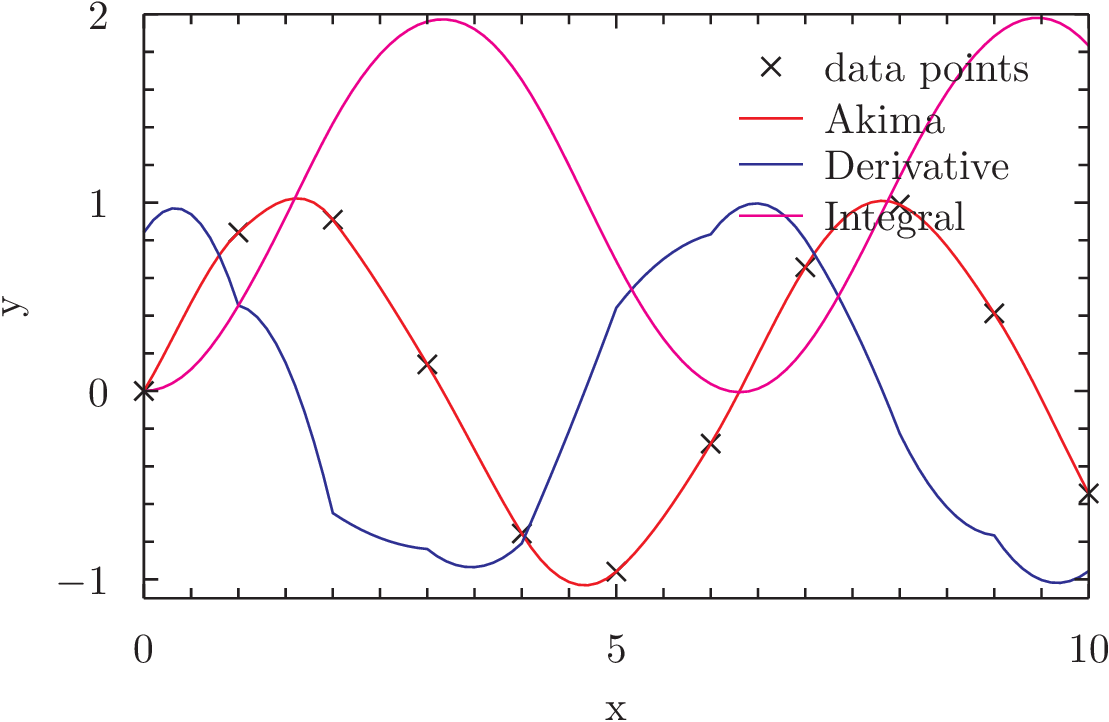
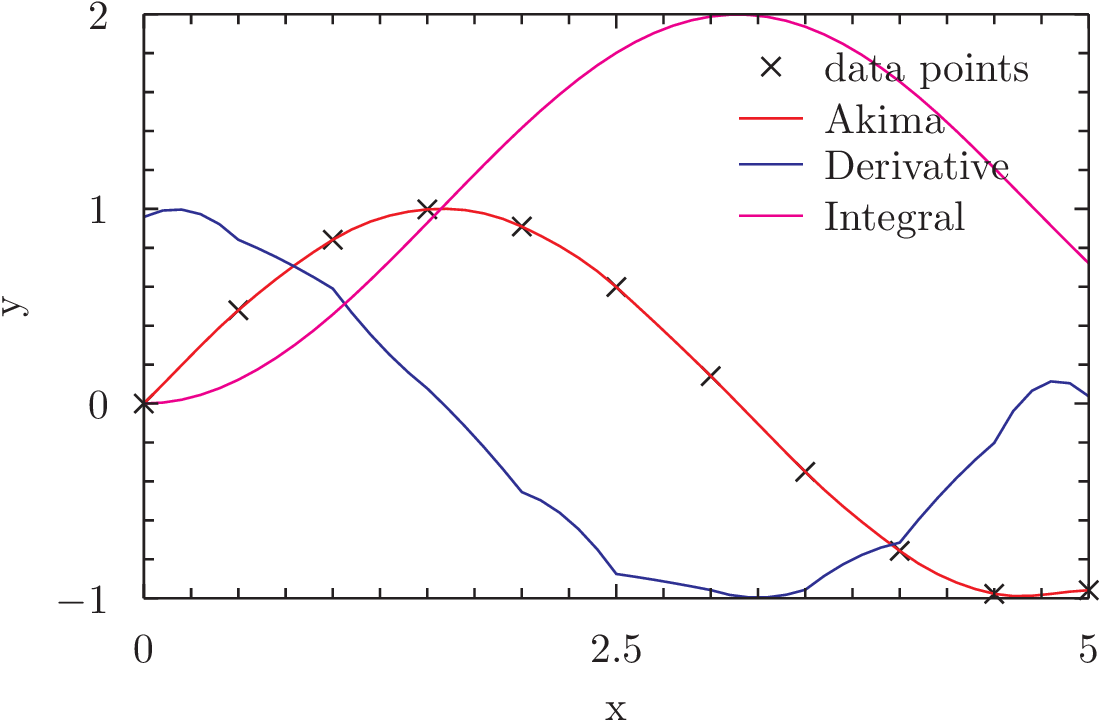
test more point

diff --git a/exam/ImplementAkima/main.cs b/exam/ImplementAkima/main.cs
@@ -5,7 +5,7 @@ using System.IO;
 
 class main{
 	static void Main(){
-		double[] x = {0,1,2,3,4,5,6,7,8,9,10};
+		double[] x = {0,0.5,1,1.5,2,2.5,3,3.5,4,4.5,5};
 		double[] y = new double[x.Length];
 		for(int i = 0; i < x.Length; i++)
 			y[i] = Sin(x[i]);
